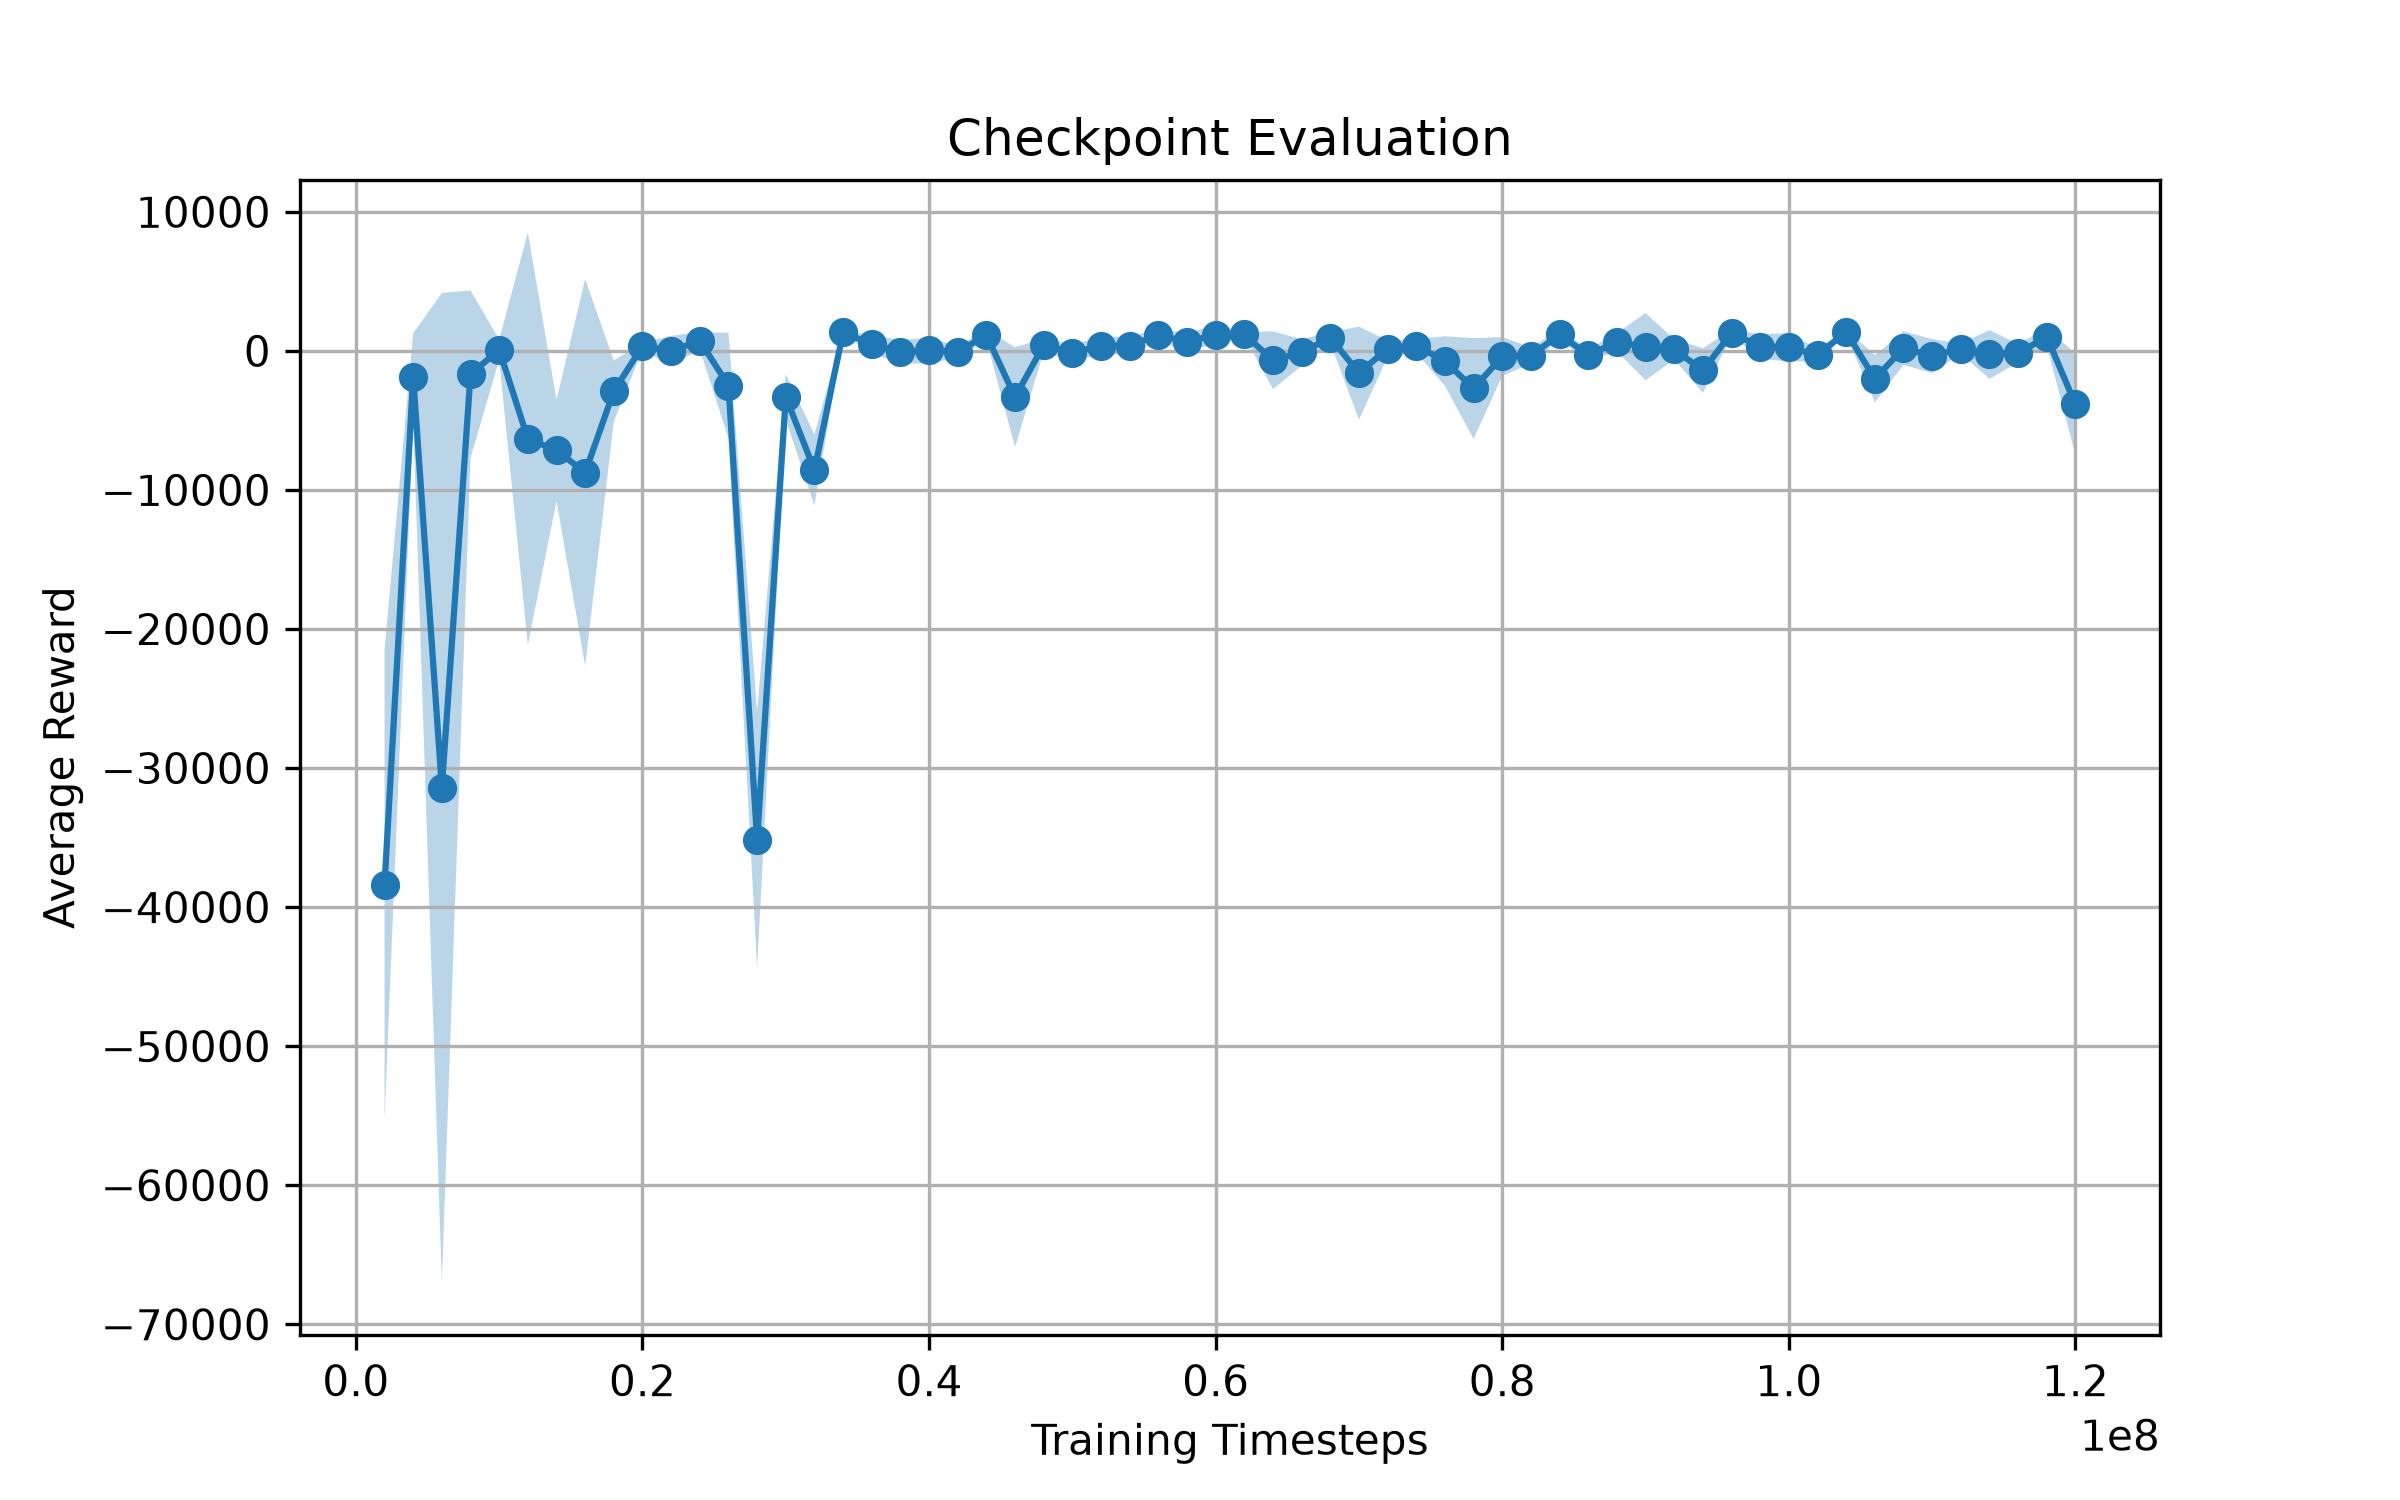
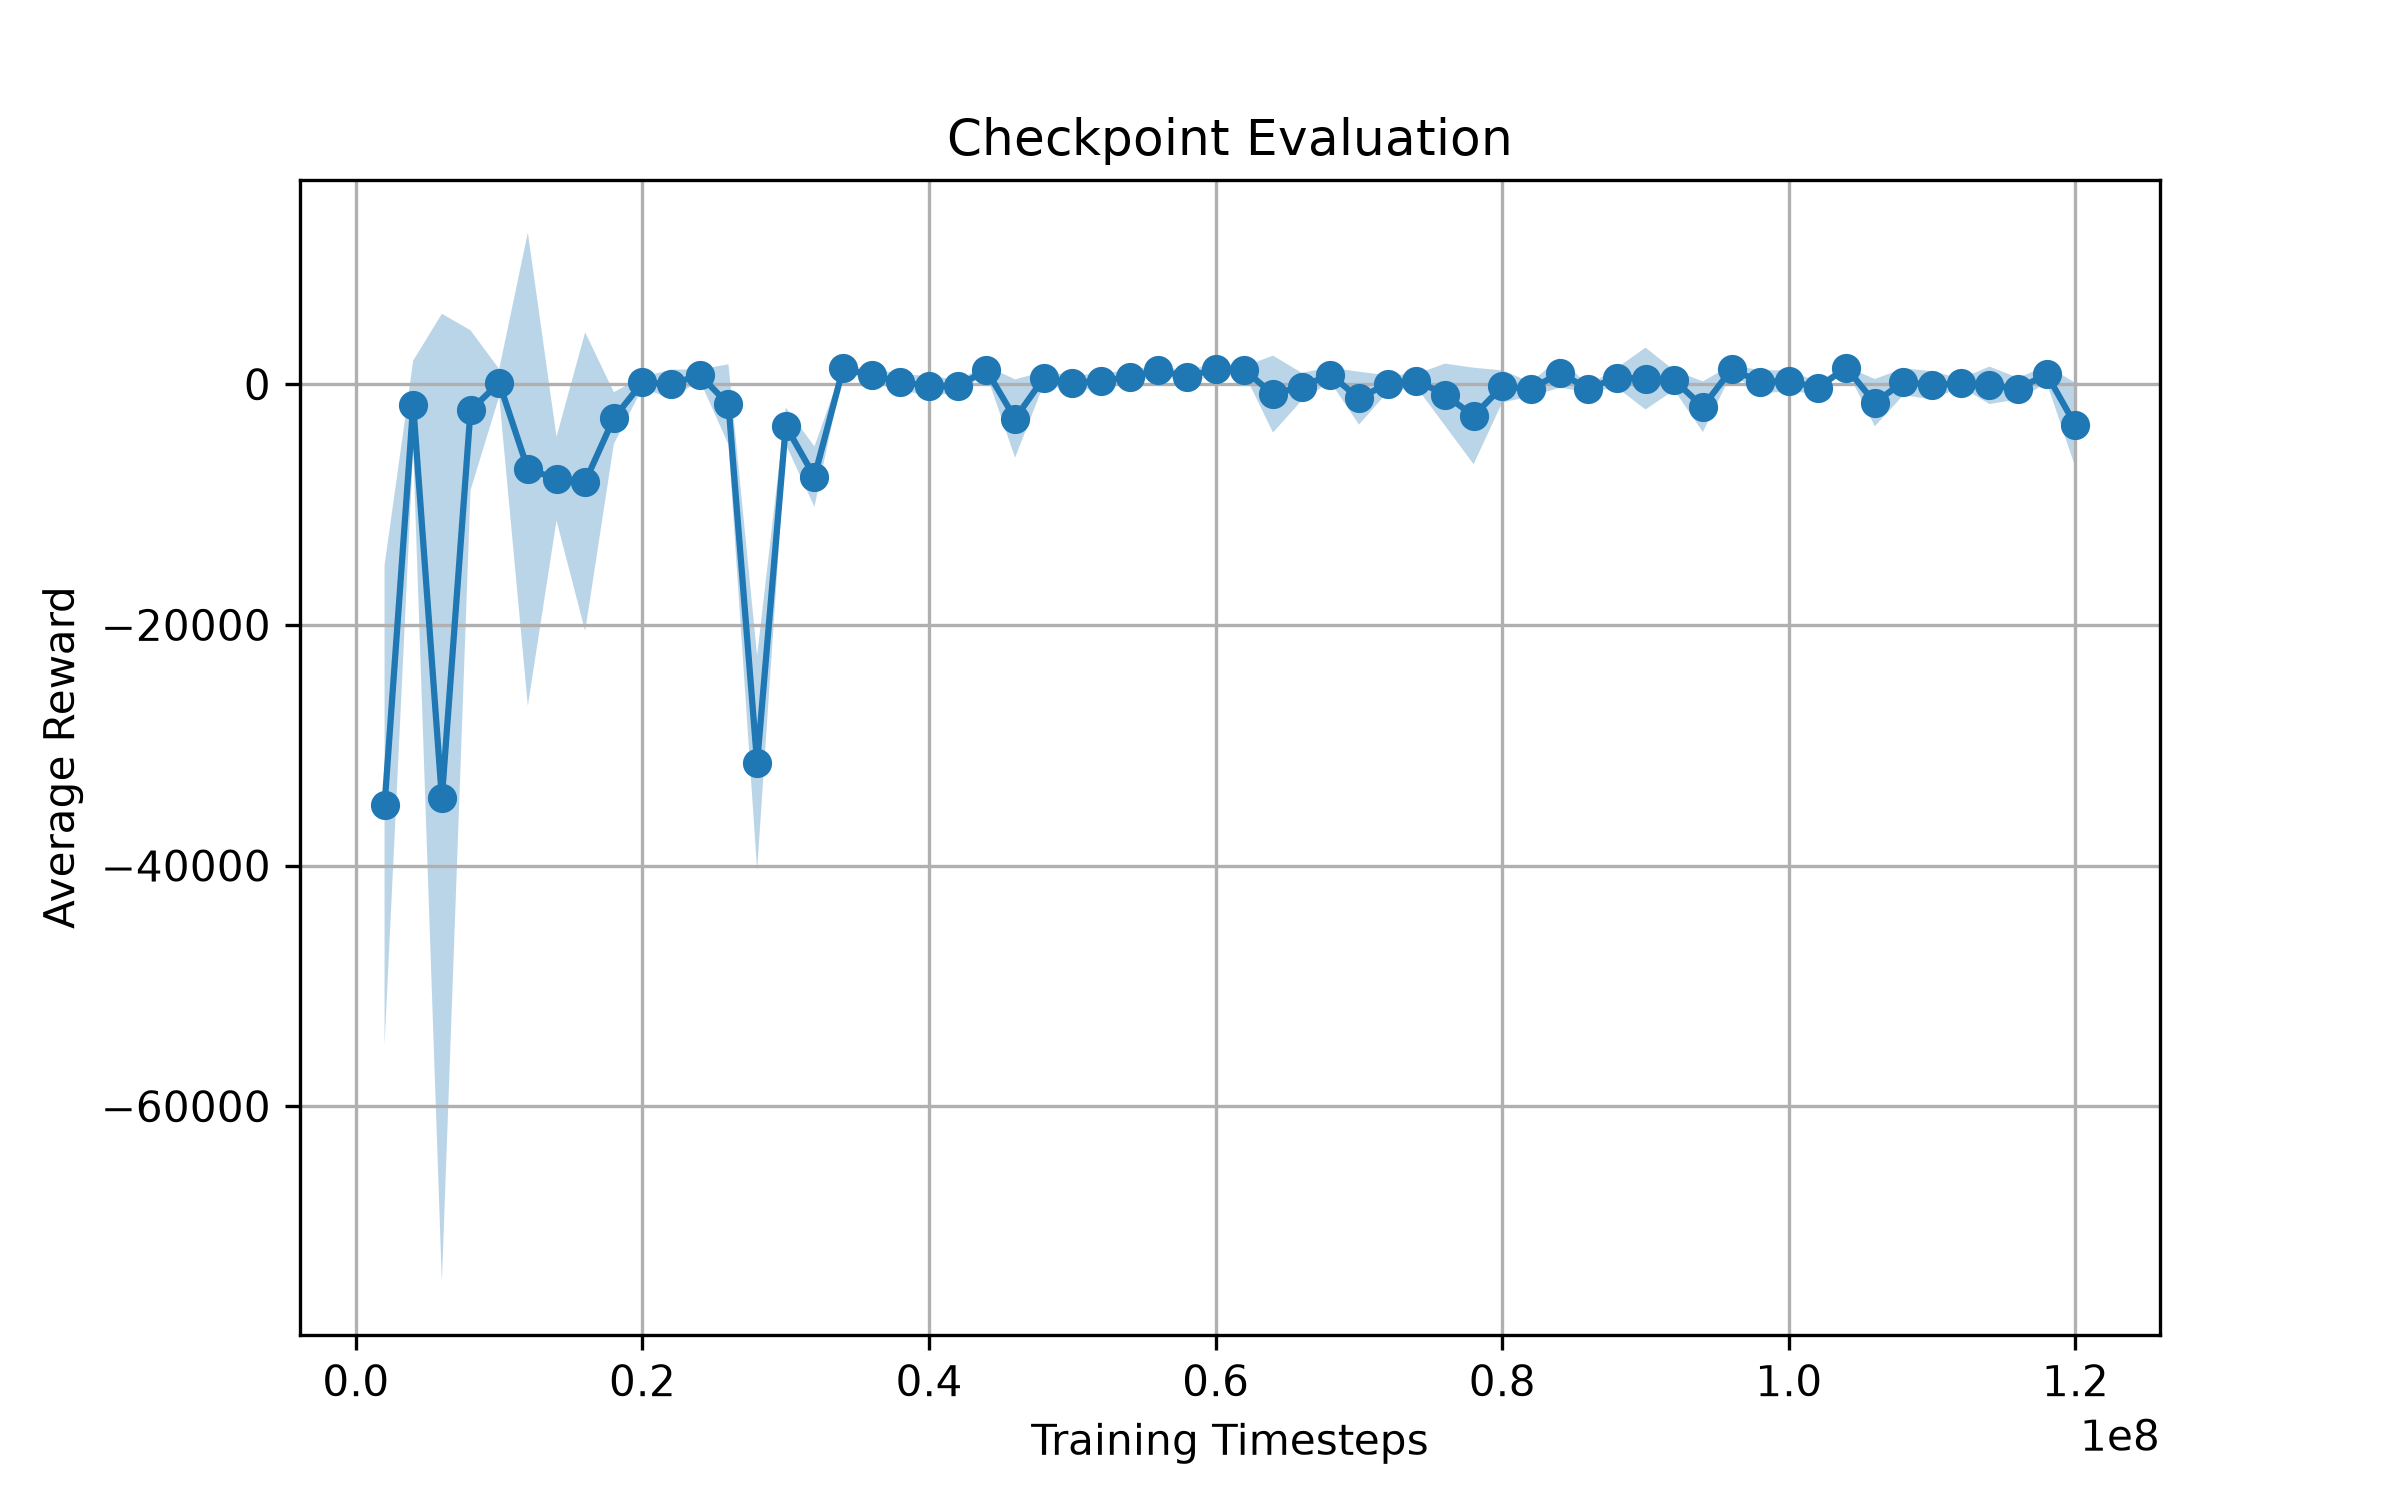
increase the sample size for the reward plot

diff --git a/plot_rewards.py b/plot_rewards.py
@@ -44,7 +44,7 @@ class SimpleRewardWrapper(gym.Wrapper):
 # 設定
 # =====================================
 checkpoint_dir = "Logs/20260706_005225/checkpoints"   # ←変更
-n_eval_episodes = 30
+n_eval_episodes = 150
 
 env = gym.make("Humanoid-v5")
 env = SimpleRewardWrapper(env)
@@ -113,4 +113,3 @@ plt.title("Checkpoint Evaluation")
 plt.grid(True)
 
 plt.savefig("checkpoint_reward_curve.png", dpi=300)
-plt.show()